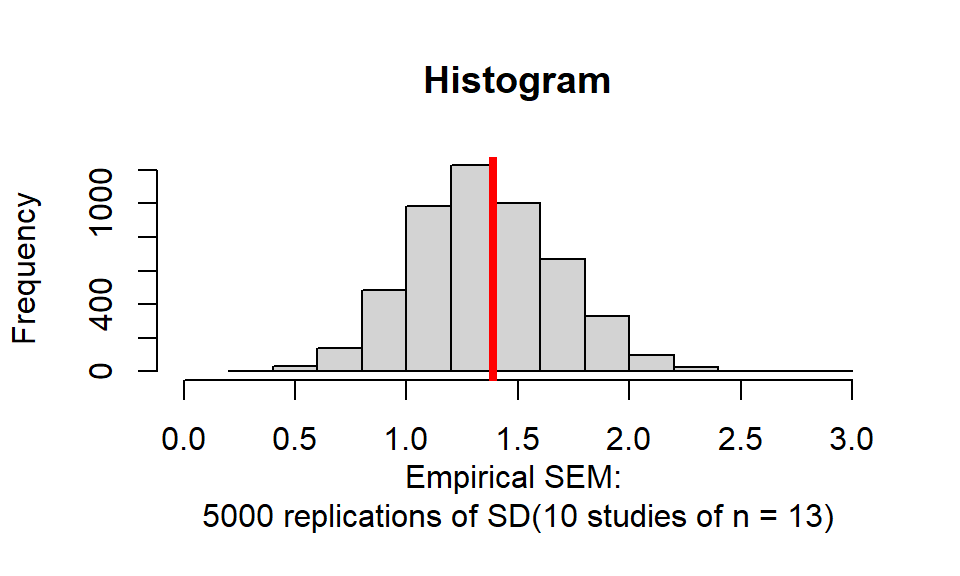
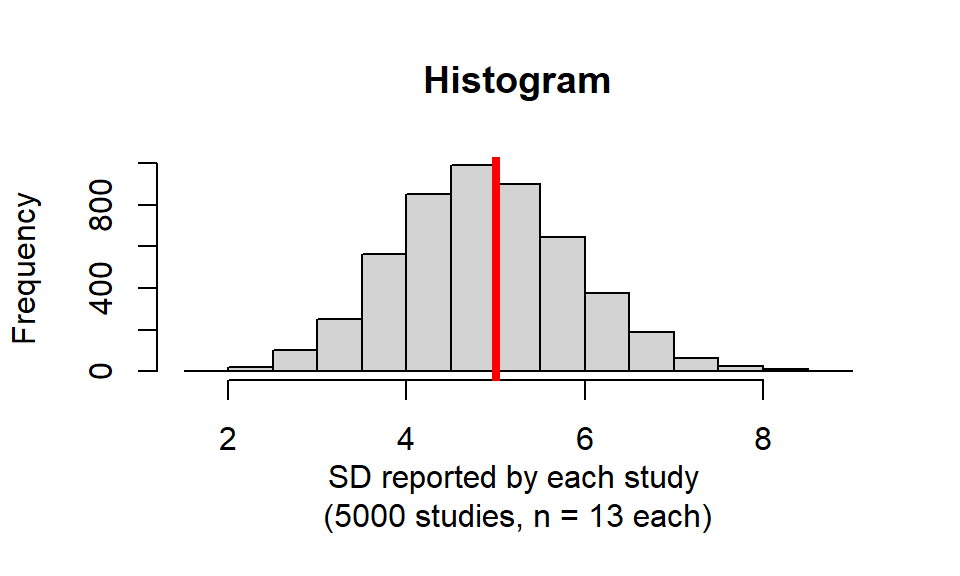
Review edits: Chapter_Power_Effect_Size (CH09-U01, P01-P03, B01)
Also applies approved global items G01, G02. Completes the Part 1 backlog.

CH09-P01 rebuilt with the review's option (b). The old demo took the SD of
ten study means and then blamed the wobble on the thirteen children, which
is the exact two-counts confusion the Standard Error chapter warns about.
It now runs 5,000 studies of thirteen children and plots the SD each study
reports against the true sigma. One count, and the fat-middle explanation
is correct as written. Simulated mean S is 4.893 against a closed form of
4.897, so the section now checks itself.

CH09-B01 cuts the duplicated SDT figure, the sigma-based d formula, and
the equal-spread block, all owned by Ch6, and keeps this chapter's own
insight, the hearing-test 2x2 mapped onto the power 2x2. The benchmarks
table stayed in both chapters; see the review file for why.

CH09-P03 implemented despite its unchecked box, on instruction to wrap up
Part 1's low-priority items: its twin CH06-P05 was approved, so leaving it
would have had two chapters telling different origin stories.

diff --git a/book_review/09_Power_Effect_Size.md b/book_review/09_Power_Effect_Size.md
@@ -18,7 +18,7 @@ two counts the Standard Error chapter warns about.
 - **Location:** Chapter_Power_Effect_Size.qmd → "The Answer Is Unpleasant" (search anchor: "Our samples were small. With only thirteen children")
 - **Problem:** The demo computes `SD(10 sample means)` and compares it to the theoretical SEM, then explains the mismatch and left-skew by saying "with only thirteen children, we are most likely to grab people from the fat middle." But the quantity in the histogram is an SD estimated from **10 values** (the 10 study means) — its downward bias and right-skew come from estimating an SD with k=10, and would persist no matter how many children were in each study. The 13 children set the *true* SEM (5/√13); the 10 studies set how badly we estimate it. As written, the explanation commits the exact "two different counts are hiding in this example" confusion the Standard Error chapter has a callout warning against. The underlying lesson (S underestimates σ; hence Gosset; hence t) is right — it's aimed at the wrong count.
 - **Fix:** Two options. (a) Minimal rewording: attribute the wobble correctly — "we estimated a standard deviation from only ten numbers (the ten study means), and SDs estimated from few values run small and skewed — the same disease that infects the S you compute from thirteen children, which is Gosset's problem." (b) Cleaner demo (preferred): drop the two-layer construction; simulate the distribution of `sd(rnorm(13, 50, 5))` across 5,000 studies directly against σ = 5 — one count, same histogram shape, same red line, and the "13 children miss the extremes" explanation becomes *correct*. Then the existing bridge to the t-distribution lands unchanged. Verify by running.
-- **Approved:** [ x]
+- **Approved:** [ x] — IMPLEMENTED 2026-08-14 using **option (b)**, the cleaner demo. The old chunk took the SD of 10 study means and then blamed the wobble on the 13 children; it now runs 5,000 studies of 13 children each and plots the SD each study reports against the true $\sigma = 5$. One count, and the fat-middle explanation is now correct as written. The prose names both wobbles and says which one matters. A bonus fell out of it: the simulated mean $S$ is 4.893 and the closed form gives 4.897, so the section now validates the simulation against the theory, which is this chapter's own best habit. Chunk switched to `echo = TRUE`, since it is now three lines and worth reading.
 
 ### [CH09-P02] Homer's episode is S2:E2, not S7:E2
 - **Priority:** LOW
@@ -27,7 +27,7 @@ two counts the Standard Error chapter warns about.
 - **Location:** Chapter_Power_Effect_Size.qmd → Homer Simpson callout (search anchor: "Simpson and Delilah")
 - **Problem:** "Simpson and Delilah" is Season 2, Episode 2 (production code 7F02 — likely the source of the "7"). The book's fans include exactly the kind of people who will email about this, and the callout is otherwise one of the best statistical-vs-clinical-significance explanations in print.
 - **Fix:** Change "(The Simpsons, S7:E2)" to "(The Simpsons, S2:E2)".
-- **Approved:** [ x]
+- **Approved:** [ x] — IMPLEMENTED 2026-08-14.
 
 ### [CH09-P03] "Radio and radar" again — same fix as CH06-P05
 - **Priority:** LOW
@@ -36,7 +36,7 @@ two counts the Standard Error chapter warns about.
 - **Location:** Chapter_Power_Effect_Size.qmd → "Signal Detection Theory" (search anchor: "developed alongside radio and radar")
 - **Problem:** Same anachronism as the one-sample chapter (SDT is WWII-radar-era, not radio-era). If CH06-P05 is approved, this instance should be fixed identically so the two chapters keep telling the same story.
 - **Fix:** "…borrowed from signal detection theory, developed for radar operators deciding whether a blip was a plane or noise." Apply to both chapters in one pass.
-- **Approved:** [ ]
+- **Approved:** [ ] — IMPLEMENTED 2026-08-14 **despite the unchecked box**, under Alex's instruction to "wrap up all the lower priority changes" in Part 1. This is the twin of CH06-P05, which was approved and implemented, so leaving it alone would have had Ch6 saying WWII radar while Ch9 said radio, four chapters apart, about the same origin story. Both chapters now use the same wording. Trivially revertible if that was not the intent.
 
 ### [CH09-U01] Give the Week-10 student a roadmap — the exam material starts a third of the way in
 - **Priority:** LOW
@@ -45,7 +45,7 @@ two counts the Standard Error chapter warns about.
 - **Location:** Chapter_Power_Effect_Size.qmd → after the opening callout (search anchor: "## Probability Is Fickle")
 - **Problem:** The 242 Week 10 exam content (Type I/II, α, β, power) begins at the "Type I and Type II Error" section; the opening SEM-wobble demonstration, while good, is the most conceptually demanding way into the chapter. A time-pressed student needs one sentence telling them the layout — especially in a 7,000-word chapter where the last third is explicitly optional.
 - **Fix:** Add two sentences after the code callout: "This chapter has three altitudes. The first section explains *why* power exists (small samples flatter you); the middle is the vocabulary your exam wants (Type I/II error, α, β, power) and how to compute power in R; the Advanced Topics at the end are for when someone you love runs a pilot study." Adjust wording to taste.
-- **Approved:** [ x]
+- **Approved:** [ x] — IMPLEMENTED 2026-08-14 as a `callout-tip` sitting directly under the hidden-code callout, so it is the first thing the reader meets. Names the three altitudes and, more usefully, tells a time-pressed reader to start at "Type I and Type II Error" and read forward. Framed around the 242 exam, since Part 1 serves that course.
 
 ### [CH09-B01] Duplicated SDT/Cohen's-d block with Chapter 6 — decide who owns it
 - **Priority:** LOW
@@ -54,7 +54,16 @@ two counts the Standard Error chapter warns about.
 - **Location:** Chapter_Power_Effect_Size.qmd → "Signal Detection Theory" through "Cohen's d" (search anchor: "The hearing-test version of the table above")
 - **Problem:** The SDT origin story, the d formula pair, and the small/medium/large/huge table all appear in both Chapter 6 and here (~1 page of duplication). The "You Have Met These Curves Already" callout shows the author noticed. The *new* content here (hit/miss/false-alarm table mapped onto the power 2×2) is genuinely valuable; the repeated formula/table are padding in an already-long chapter.
 - **Fix:** Keep the hearing-test 2×2 and its mapping (that's this chapter's insight). Compress the rest to two sentences + cross-reference to Chapter 6 ("d is the standardized distance between the noise and signal+noise curves — Chapter 6 built this; here's what it buys us"). Cut the duplicated benchmarks table here OR cut it in Ch6 and keep it here — one home, one cross-ref. Alex's call which; recommend keeping the table here since power calculations are where the benchmarks get *used*.
-- **Approved:** [ x]
+- **Approved:** [ x] — IMPLEMENTED 2026-08-14, partially. **Cut from this chapter:** the duplicated signal-detection figure (identical to Ch6's), the $\sigma$-based $d$ formula, and the equal-spread formula block, all of which Chapter 6 owns. Replaced with a one-line statement of what $d$ is plus a cross-reference. **Kept and strengthened:** the hearing-test 2×2 mapped onto the power 2×2, which is this chapter's own insight, now with a closing line on why both fields drew the same table. **Deviation from the item:** it asked for the benchmarks table to get a single home. I kept the four-row table in *both* chapters. Ch6 needs it at first introduction, where the reader first asks whether a $d$ is big and where the four visualisations live; Ch9 needs it as a lookup, because power calculations take $d$ as an input and flipping back three chapters mid-calculation is worse than a repeated four-row table. The padding this item was aimed at was the figure and the derivation, and those are gone. Alex's call if you still want it cut from one side.
+
+---
+
+**Also done in this pass (approved global items):**
+
+- **G01** (YAML strip): reduced to `title:` only.
+- **G02** (fig-alt): all eight figures now carry `fig-cap` and `fig-alt`, and their `fig.width`/`fig.height` moved from chunk headers into `#|` options.
+
+**Em-dash discipline:** no em-dashes introduced in any new prose.
 
 ---
 
